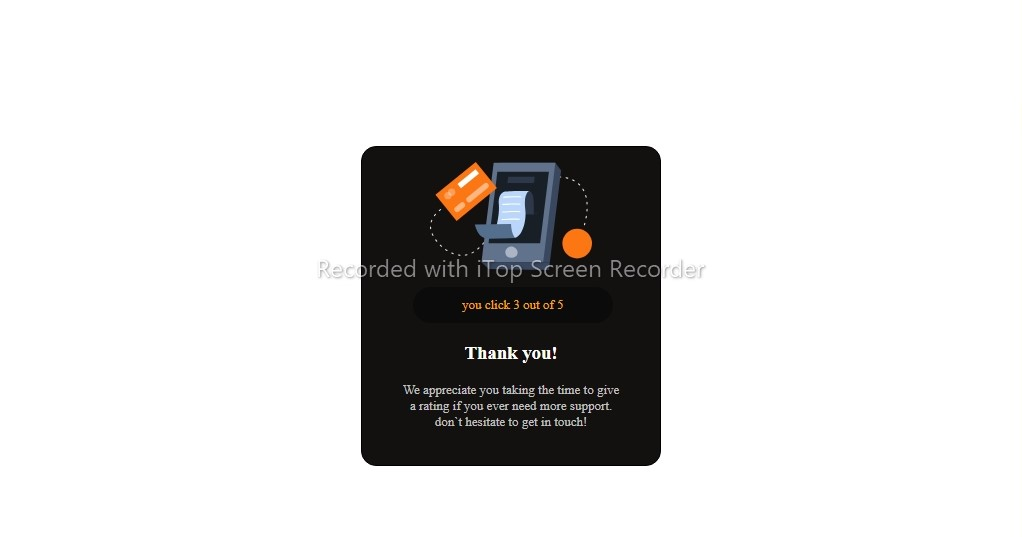
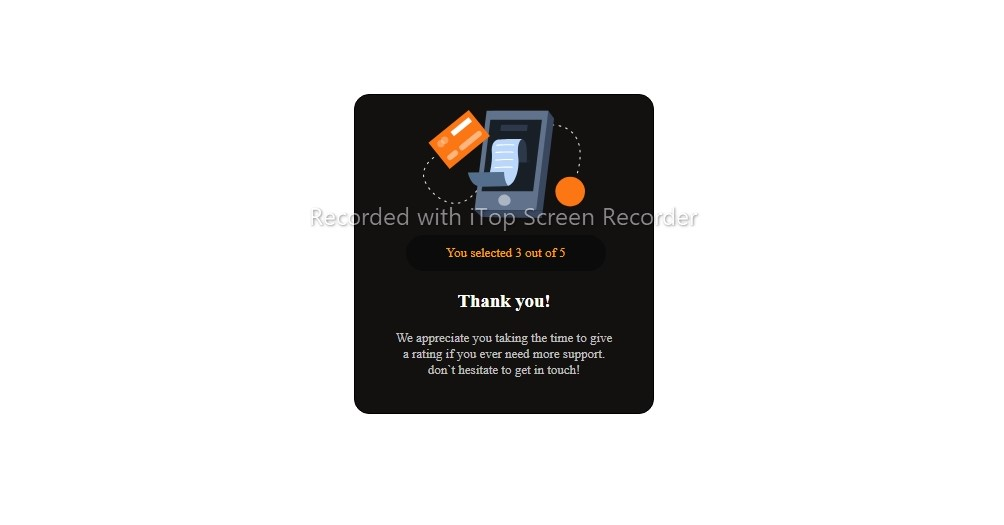
adjustment

Changed region(s): [[0.3088, 0.1524, 0.7102, 0.5181], [0.3396, 0.64, 0.6484, 0.8838], [0.4323, 0.5486, 0.5558, 0.6095]]

diff --git a/script/script.js b/script/script.js
@@ -5,23 +5,23 @@ let p4 = $(".p4");
 let p5 = $(".p5");
 
 p1.click(function(){
-   document.getElementById("demo").innerHTML = "you click 1 out of 5"
+   document.getElementById("demo").innerHTML = "You selected 1 out of 5"
 })
 
 p2.click(function(){
-   document.getElementById("demo").innerHTML = "you click 2 out of 5"
+   document.getElementById("demo").innerHTML = "You selected 2 out of 5"
 })
 
 p3.click(function(){
-   document.getElementById("demo").innerHTML = "you click 3 out of 5"
+   document.getElementById("demo").innerHTML = "You selected 3 out of 5"
 })
 
 p4.click(function(){
-   document.getElementById("demo").innerHTML = "you click 4 out of 5"
+   document.getElementById("demo").innerHTML = "You selected 4 out of 5"
 })
 
 p5.click(function(){
-   document.getElementById("demo").innerHTML = "you click 5 out of 5"
+   document.getElementById("demo").innerHTML = "You selected 5 out of 5"
 })
 
 $("button").click(function(){
